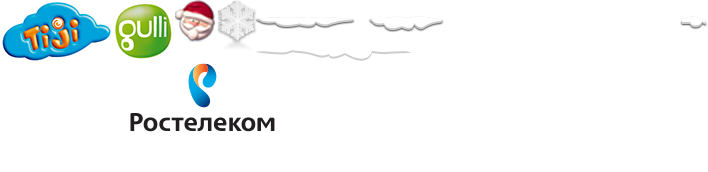
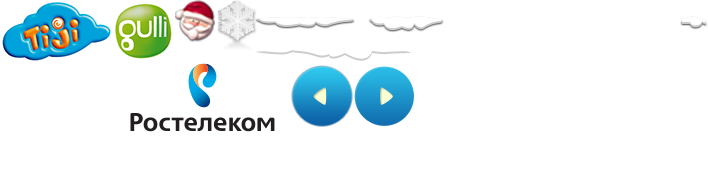
add programs

Changed region(s): [[0.404, 0.3779, 0.5904, 0.7558]]

diff --git a/public/css/common.scss b/public/css/common.scss
@@ -685,7 +685,6 @@ button::-moz-focus-inner {
 					width: 155px;
 					@include graphics(-256px, -47px);
 				}
-
 			}
 		}
 		&-fieldset.b-form-submit-fieldset {
@@ -734,7 +733,6 @@ button::-moz-focus-inner {
 		-webkit-box-shadow: inset 0 0 6px rgba(0,0,0,0.3);
 					border-radius: 10px;
 	}
-
 	&::-webkit-scrollbar-thumb {
 
 		border-radius: 7px;
@@ -775,4 +773,96 @@ button::-moz-focus-inner {
 	}
 }
 
+.b-schedule-article {
+
+	padding: 47px 30px 52px;
+
+	&-controls-link {
+
+		position: relative;
+		display: block;
+		text-decoration: none;
+		&:after {
+
+			position: absolute;
+			content: "";
+			top: 24px;
+			width: 63px;
+			height: 63px;
+		}
+	}
+	&-controls-back-link:after {
+
+		left: 9px;
+		@include graphics(-291px, -65px);
+	}
+	&-controls-next-link:after {
+
+		right: 50%;
+		margin-right: -106px;
+		@include graphics(-354px, -65px);
+	}
+	&-inside {
+
+		float: left;
+		margin: 0 0 0 105px;
+		width: 427px;
+		overflow: hidden;
+		color: #0c5fa5;
+	}
+	&-days-title {
+
+			@include Noteworthy-Bold(60px, normal);
+	}
+	&-days-caption {
+
+			padding: 0 0 30px 0;
+			@include Noteworthy(25px, normal);
+
+	}
+	&-programms-collection {
+
+		max-height: 710px;
+		overflow-y: auto;
+		@include Noteworthy(0, 0);
+		&::-webkit-scrollbar {
+
+			width: 8px;
+		}
+		&::-webkit-scrollbar-track {
+
+			background: #73a2d0;
+			-webkit-box-shadow: inset 0 0 6px rgba(0,0,0,0.3);
+						border-radius: 10px;
+		}
+
+		&::-webkit-scrollbar-thumb {
+
+			border-radius: 7px;
+			-webkit-box-shadow: inset 0 0 6px rgba(0,0,0,0.5);
+		}
+		&-clause {
+			
+			padding: 0 0 15px 0;
+			&-time {
+
+				display: inline-block;
+				box-sizing: border-box;
+				width: 80px;
+				@include Font(17px, normal);
+				vertical-align: middle;
+			}
+			&-name {
+
+				display: inline-block;
+				box-sizing: border-box;
+				margin: 0 0 0 -80px;
+				padding: 0 0 0 80px;
+				width: 100%;
+				@include Font(25px, 25px);
+				vertical-align: middle;
+			}
+		}
+	}
+}
 
